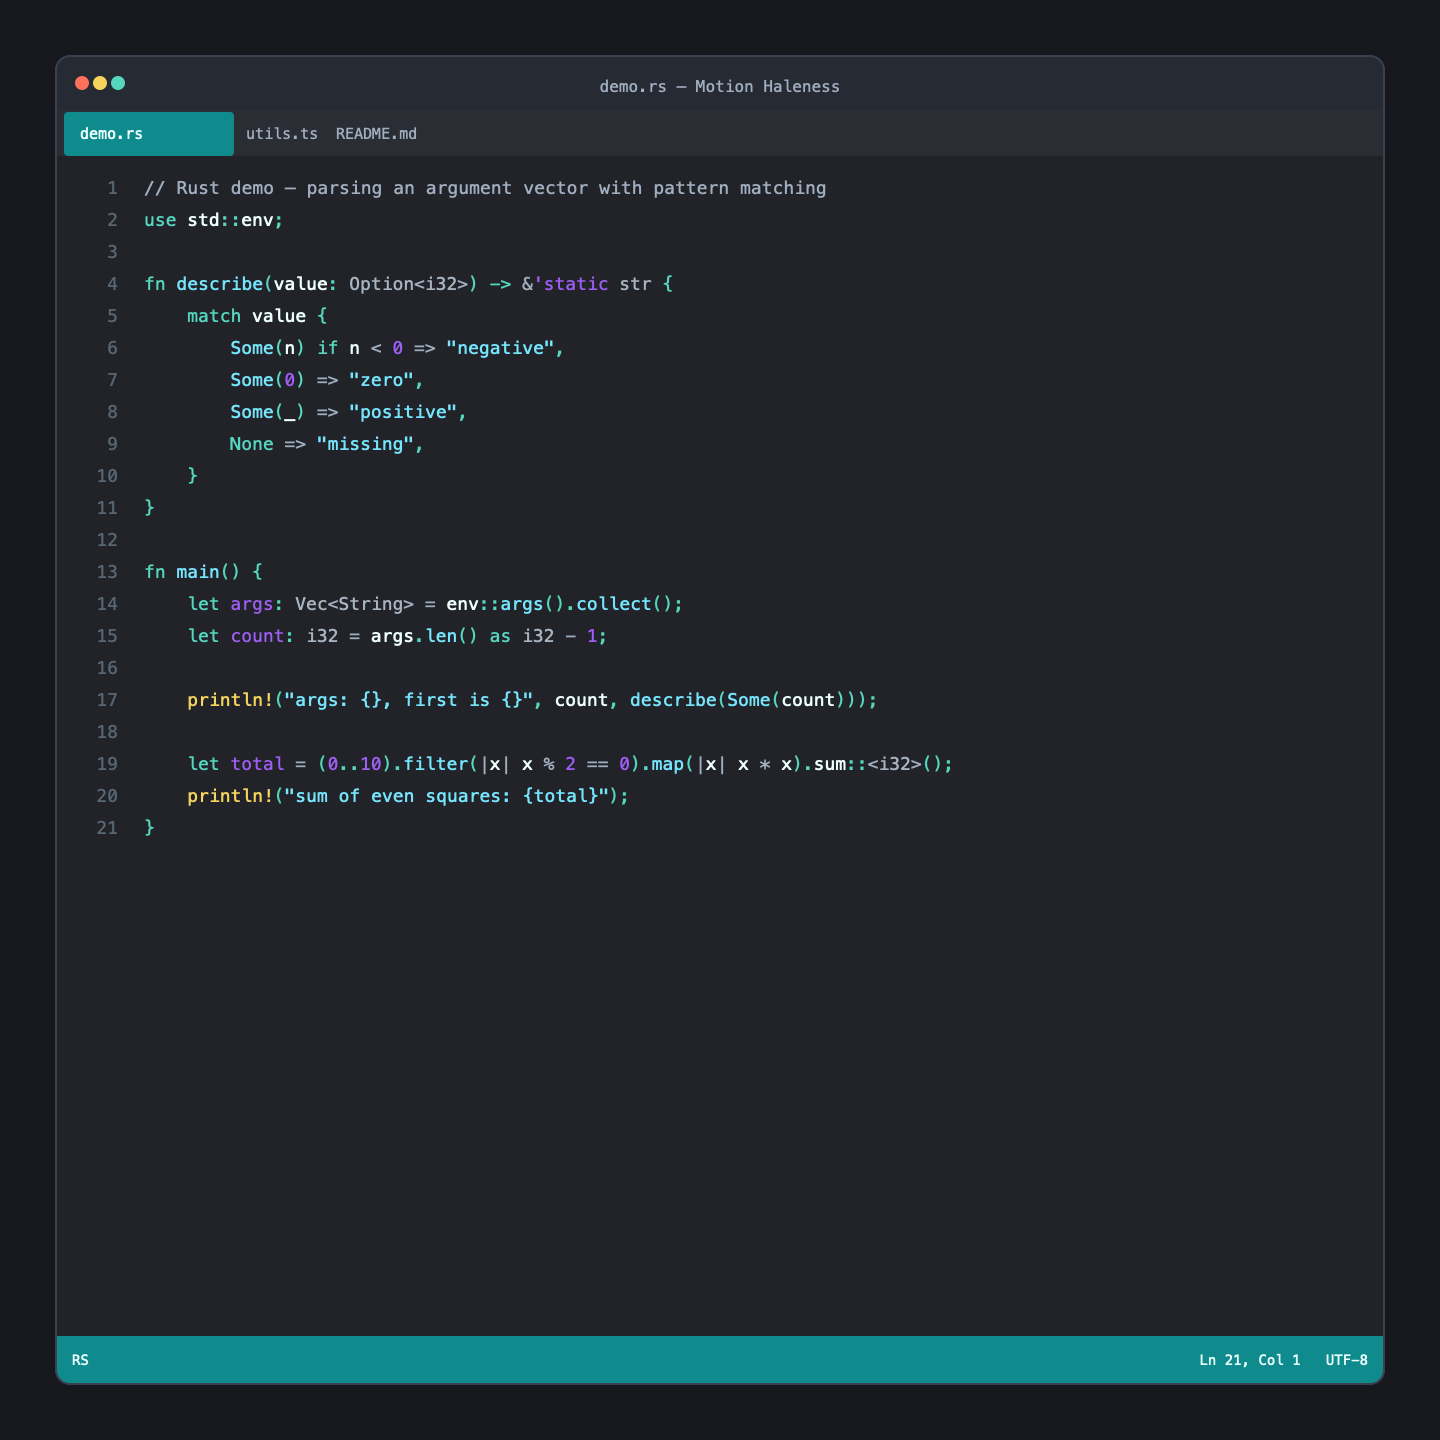
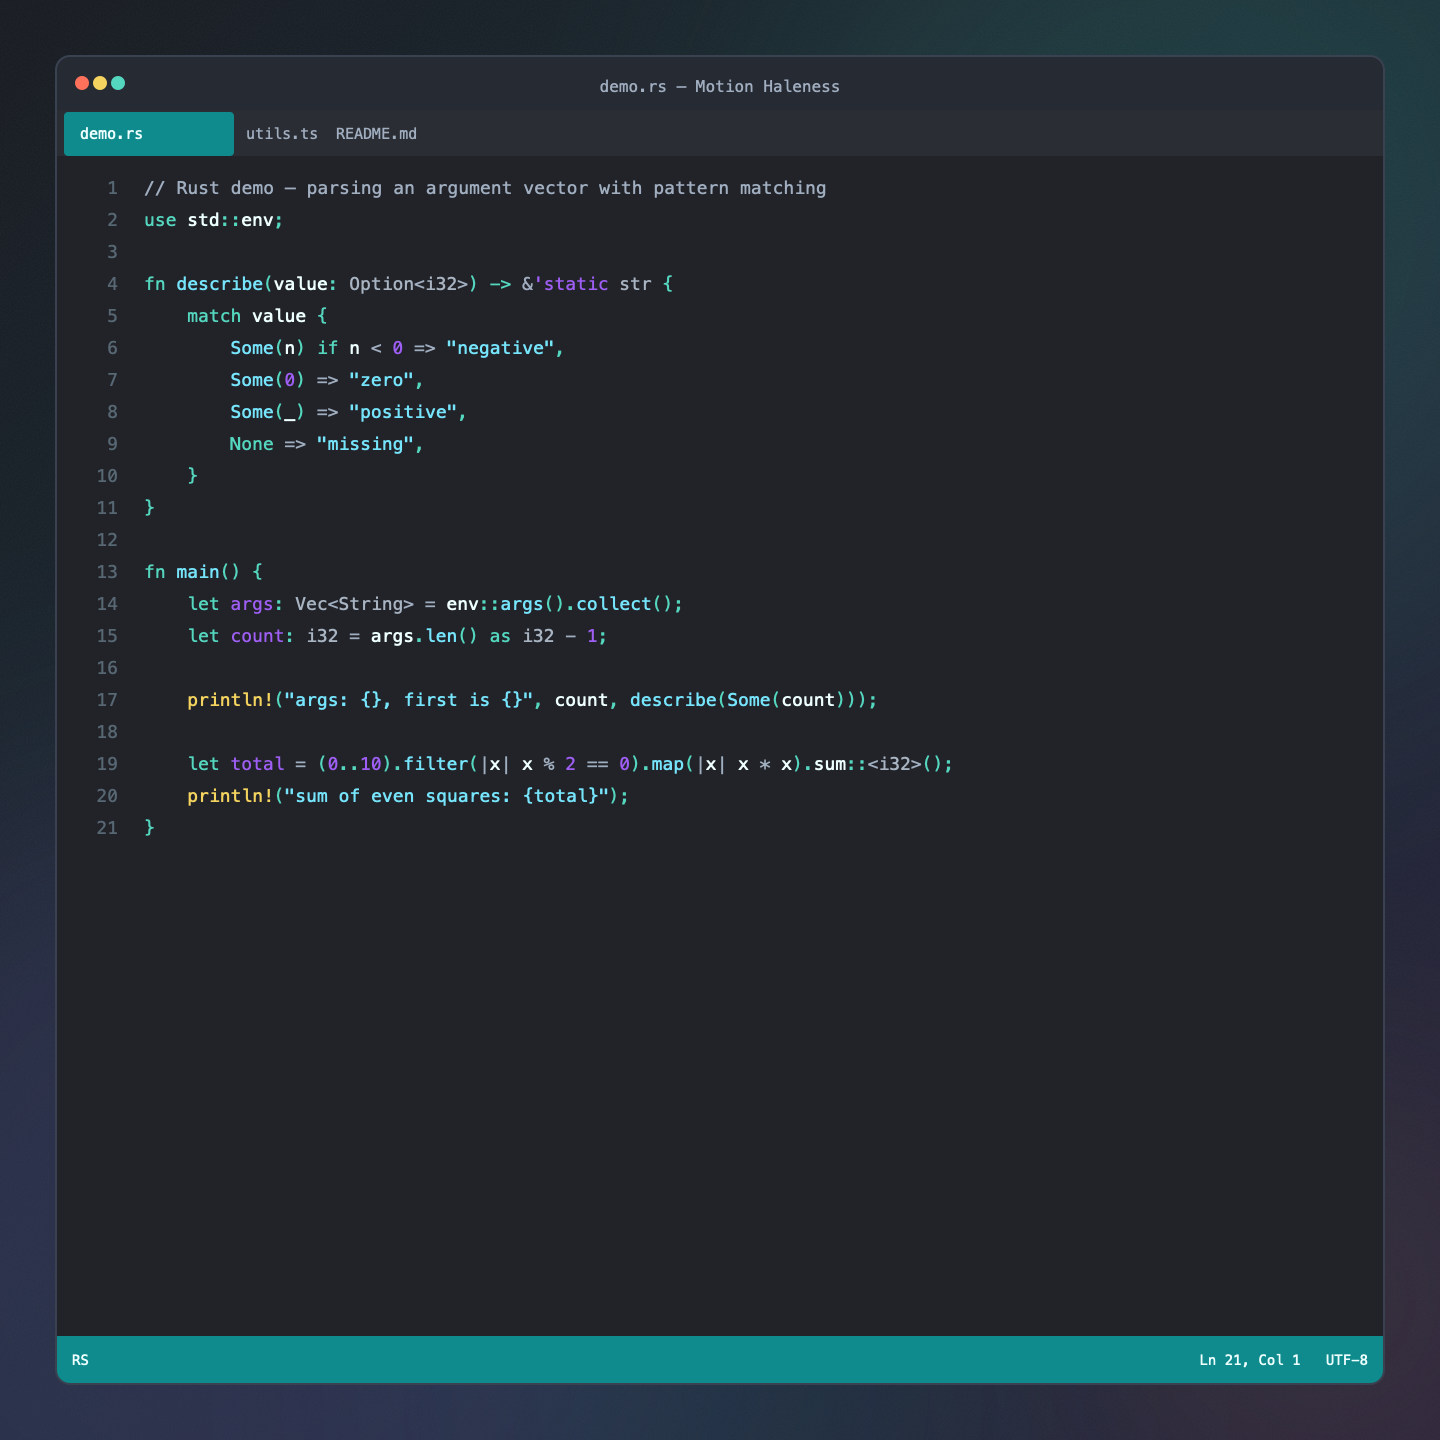
theme-colored gradient background with grain in screenshots

Changed region(s): [[0.0, 0.0, 1.0, 1.0]]

diff --git a/scripts/generate-screenshots.js b/scripts/generate-screenshots.js
@@ -180,8 +180,22 @@ function buildSvg(langLabel, fileName, code) {
 
   const parts = [];
   parts.push(`<svg xmlns="http://www.w3.org/2000/svg" width="${W}" height="${H}">`);
-  parts.push(`<defs><clipPath id="win"><rect x="${winX}" y="${winY}" width="${winW}" height="${winH}" rx="${RADIUS}"/></clipPath></defs>`);
-  parts.push(`<rect width="${W}" height="${H}" fill="#16181d"/>`);
+  parts.push(`<defs><linearGradient id="bg" x1="0" y1="0" x2="1" y2="1">
+  <stop offset="0" stop-color="#14171d"/>
+  <stop offset="0.5" stop-color="#13262f"/>
+  <stop offset="1" stop-color="#241b35"/>
+</linearGradient>
+<filter id="blurT" x="-60%" y="-60%" width="220%" height="220%"><feGaussianBlur stdDeviation="150"/></filter>
+<filter id="blurP" x="-60%" y="-60%" width="220%" height="220%"><feGaussianBlur stdDeviation="190"/></filter>
+<filter id="blurY" x="-60%" y="-60%" width="220%" height="220%"><feGaussianBlur stdDeviation="120"/></filter>
+<filter id="grain"><feTurbulence type="fractalNoise" baseFrequency="0.9" numOctaves="2" stitchTiles="stitch"/><feColorMatrix type="matrix" values="0 0 0 0 1 0 0 0 0 1 0 0 0 0 1 0 0 0 0.07 0"/></filter>
+<clipPath id="win"><rect x="${winX}" y="${winY}" width="${winW}" height="${winH}" rx="${RADIUS}"/></clipPath></defs>`);
+  parts.push(`<rect width="${W}" height="${H}" fill="url(#bg)"/>`);
+  parts.push(`<circle cx="${Math.round(W * 0.82)}" cy="${Math.round(H * 0.16)}" r="420" fill="#55D6BE" opacity="0.10" filter="url(#blurT)"/>`);
+  parts.push(`<circle cx="${Math.round(W * 0.14)}" cy="${Math.round(H * 0.86)}" r="460" fill="#9F5EF4" opacity="0.12" filter="url(#blurP)"/>`);
+  parts.push(`<circle cx="${Math.round(W * 0.5)}" cy="${Math.round(H * 0.97)}" r="300" fill="#0F8B8D" opacity="0.10" filter="url(#blurT)"/>`);
+  parts.push(`<circle cx="${Math.round(W * 0.92)}" cy="${Math.round(H * 0.9)}" r="220" fill="#F4D35E" opacity="0.07" filter="url(#blurY)"/>`);
+  parts.push(`<rect width="${W}" height="${H}" filter="url(#grain)"/>`);
   parts.push(`<g clip-path="url(#win)">`);
 
   // title bar
